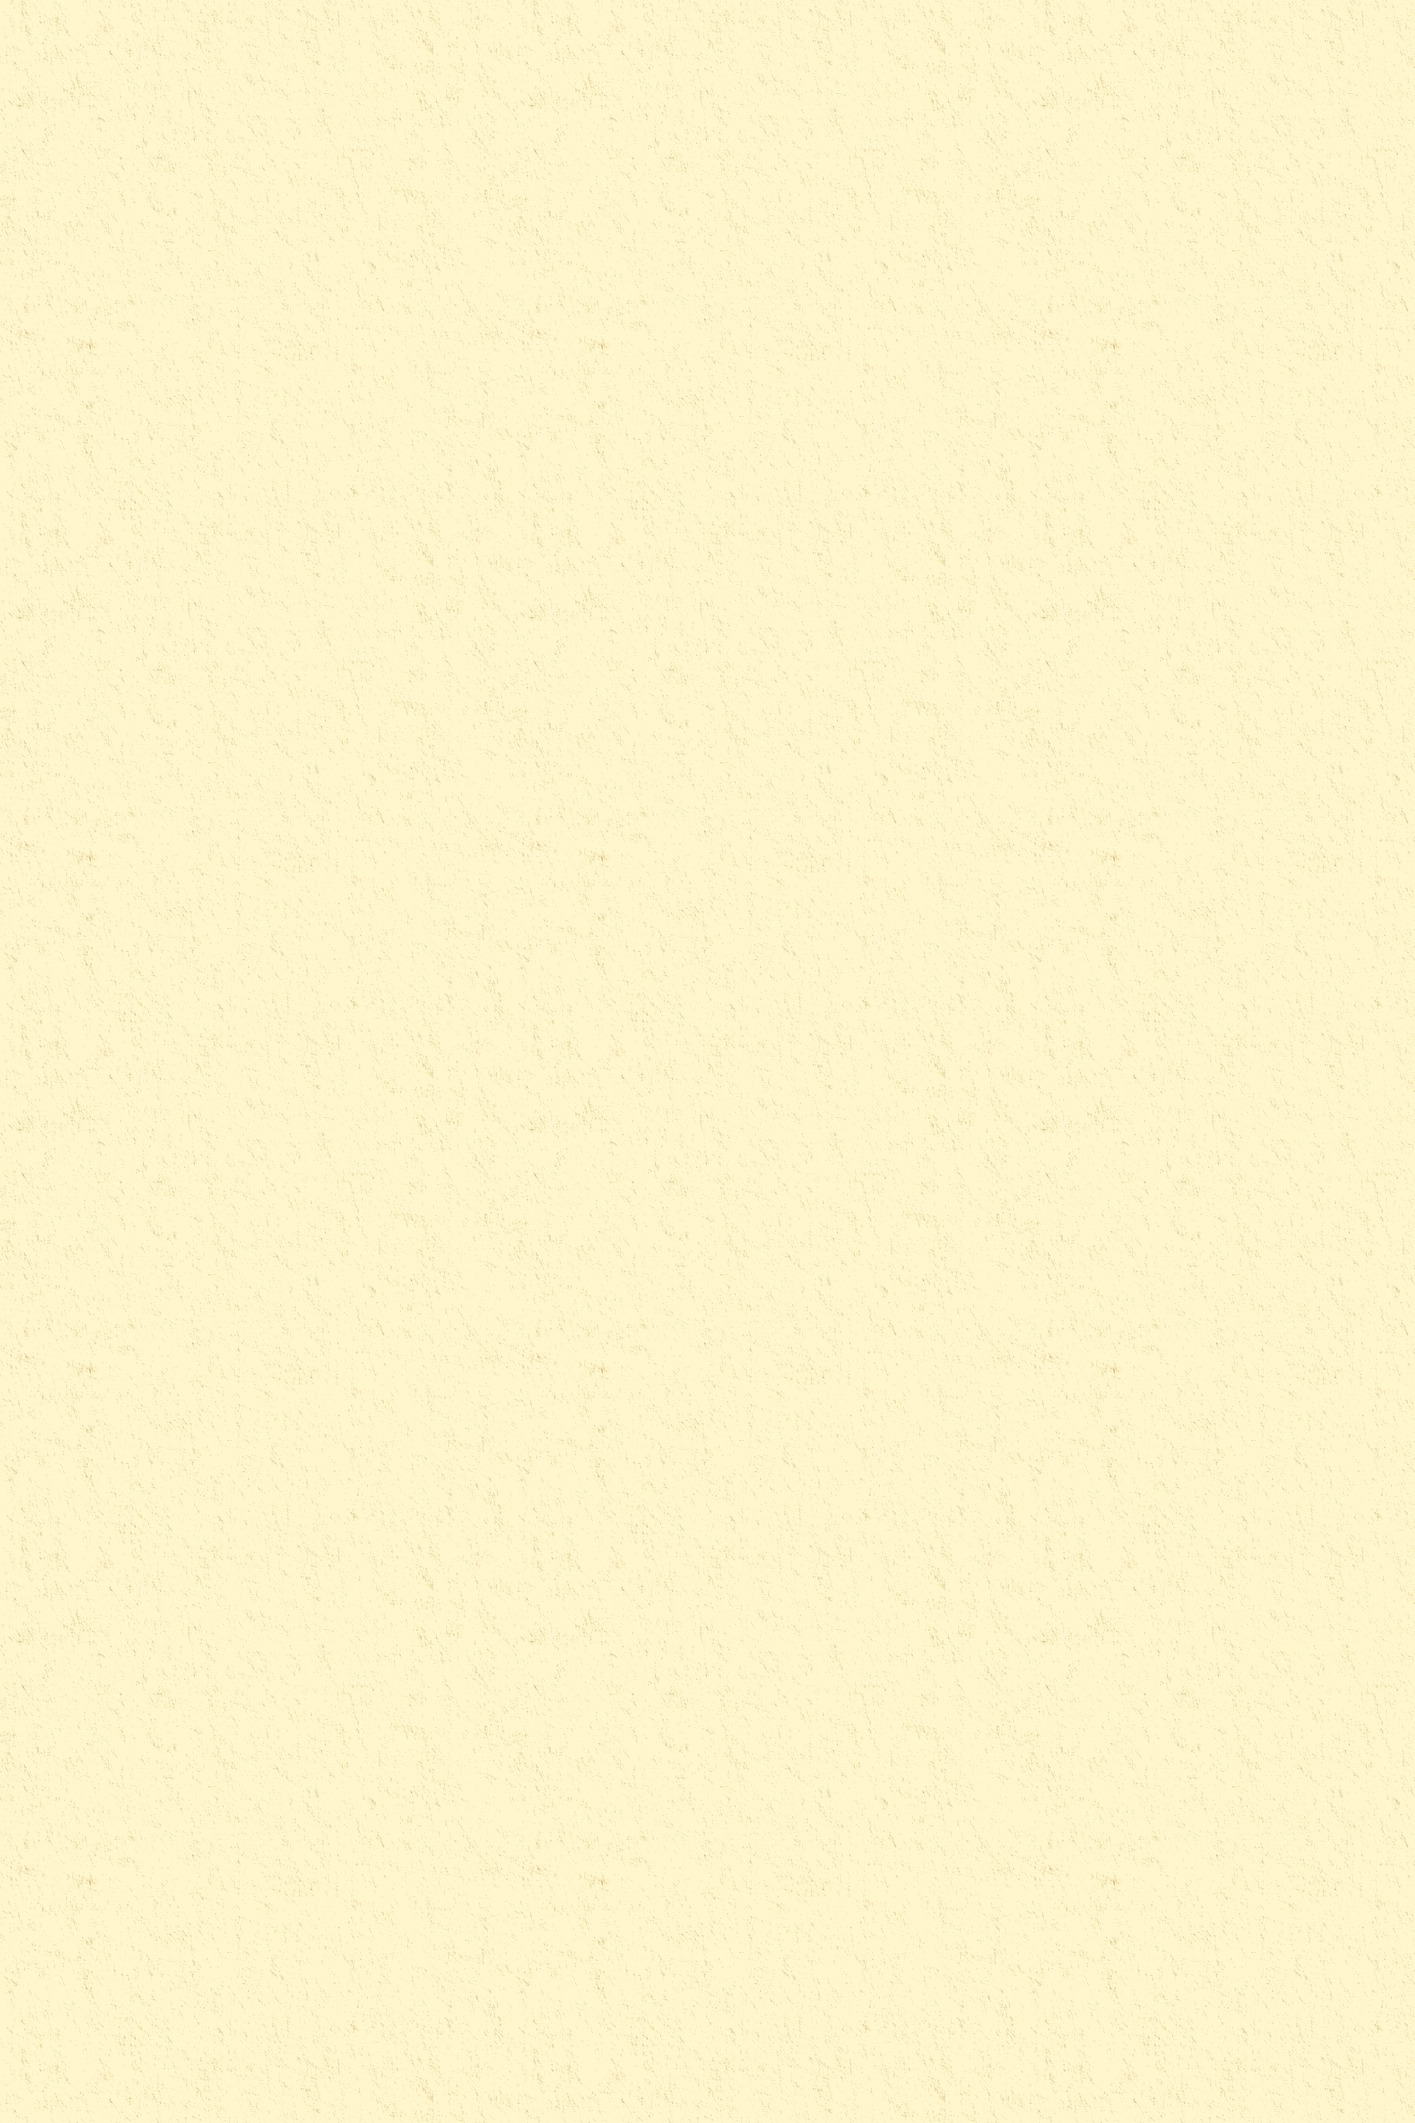
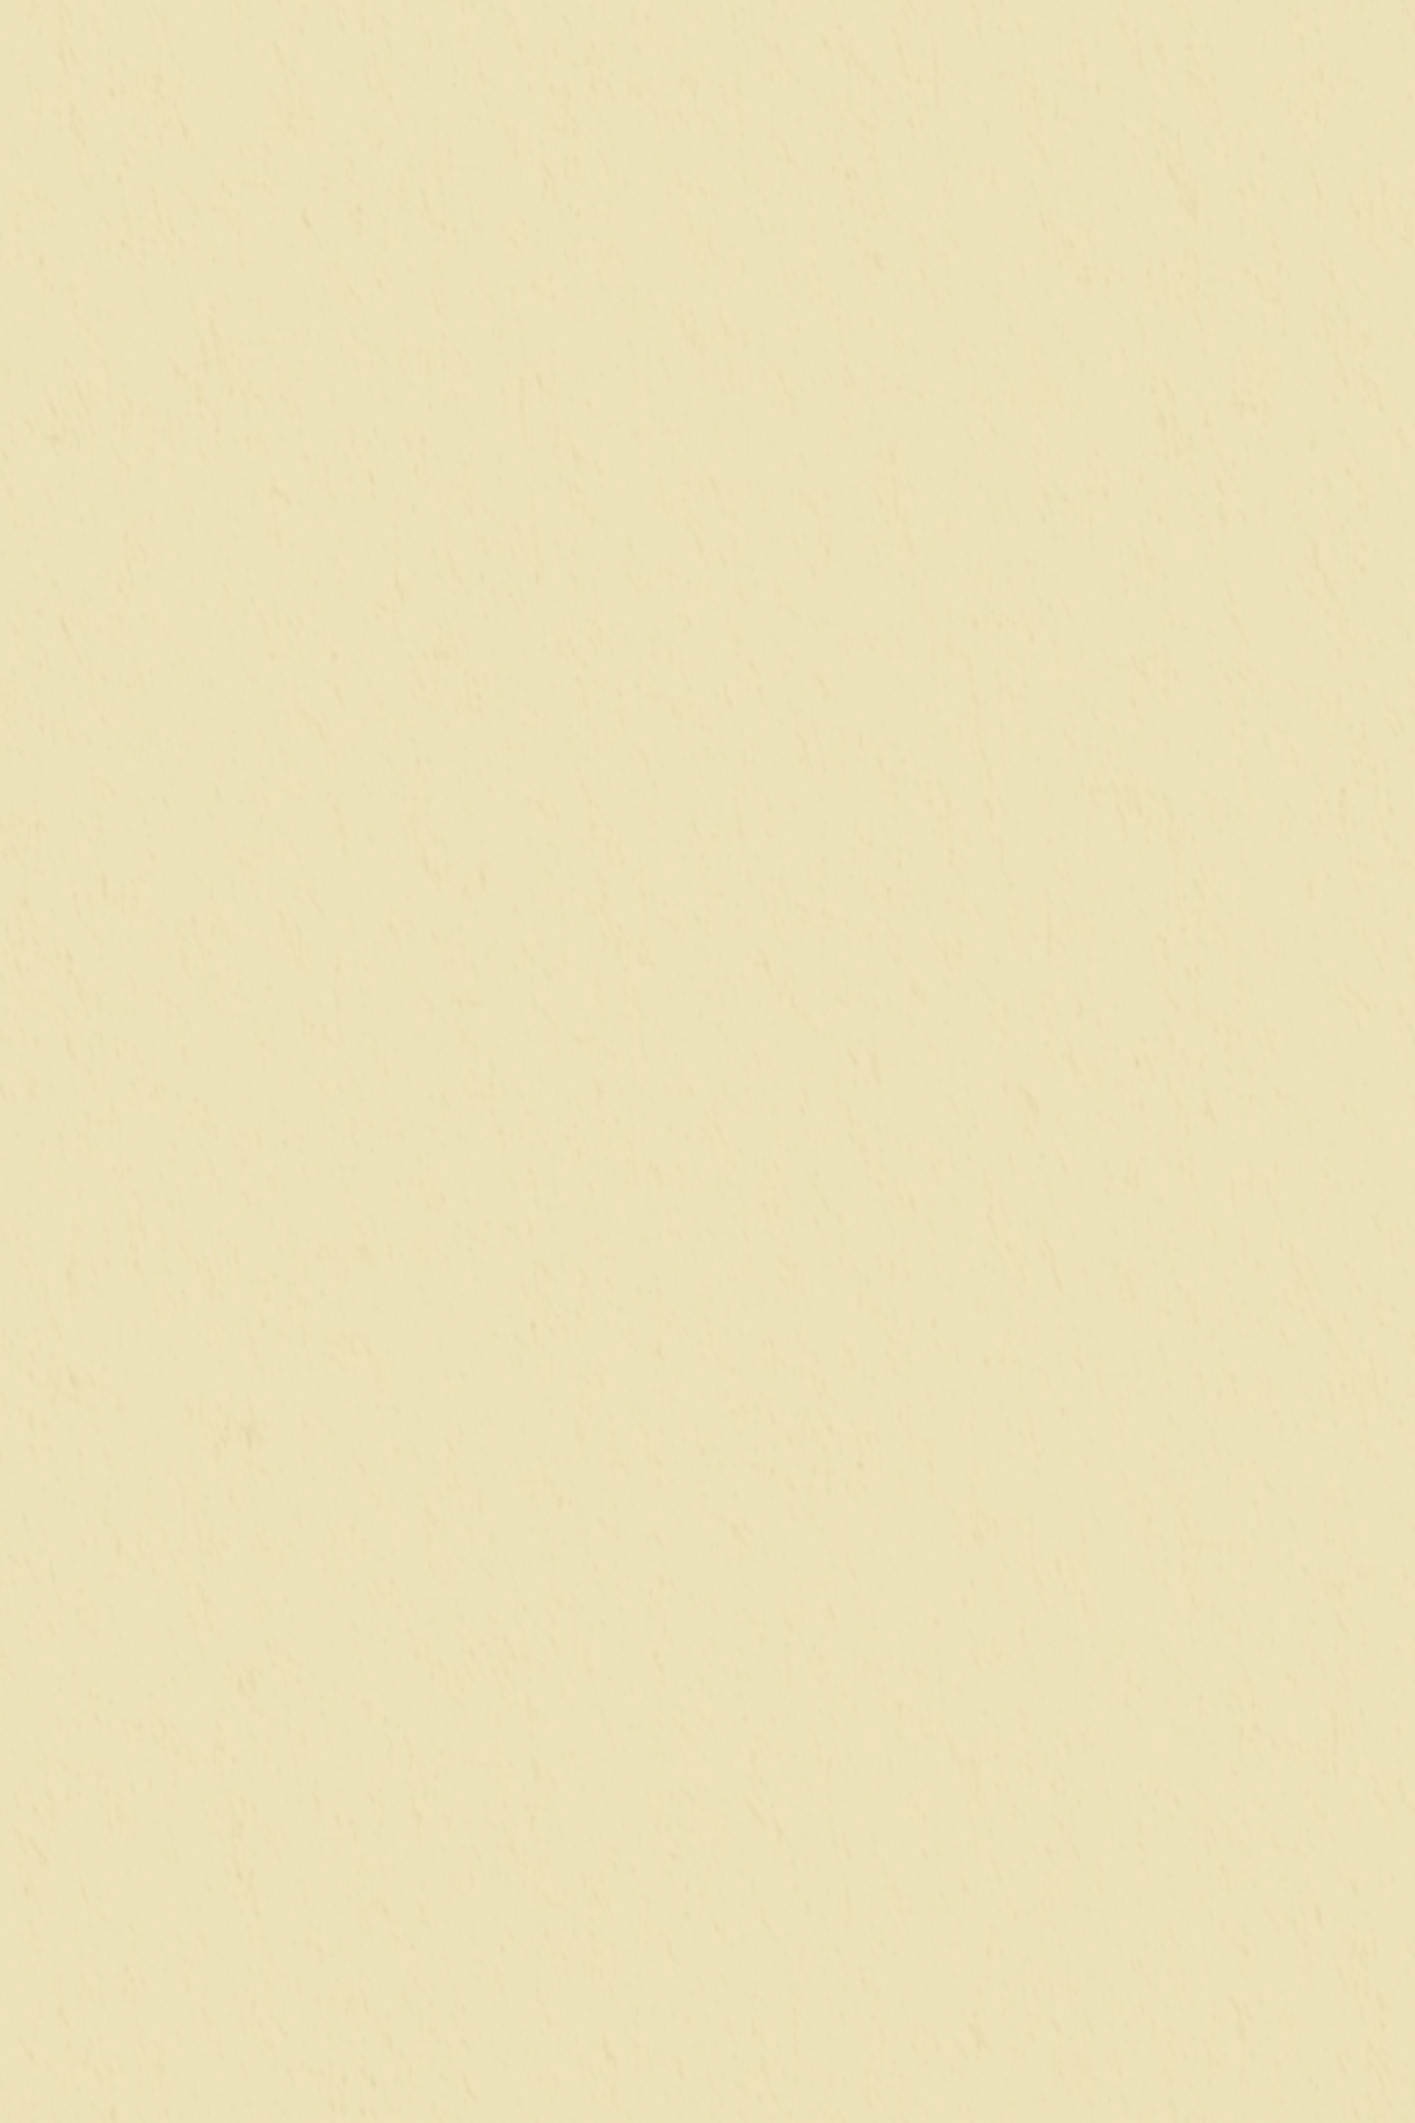
Forensic background alignment: update card base color to exact Figma renderer sampled hex #E7DBAF and single-sheet full-bleed paper texture asset (v=200)

diff --git a/schedule.html b/schedule.html
@@ -63,8 +63,8 @@ body::before{
 
 .card{
   position:relative;z-index:10 !important;
-  background-color:#FFF6CD !important;
-  background-image:url('images/figma-full-paper-sheet.jpg?v=100') !important;
+  background-color:#E7DBAF !important;
+  background-image:url('images/figma-full-paper-sheet.jpg?v=200') !important;
   background-repeat:no-repeat !important;
   background-position:center center !important;
   background-size:100% 100% !important;
